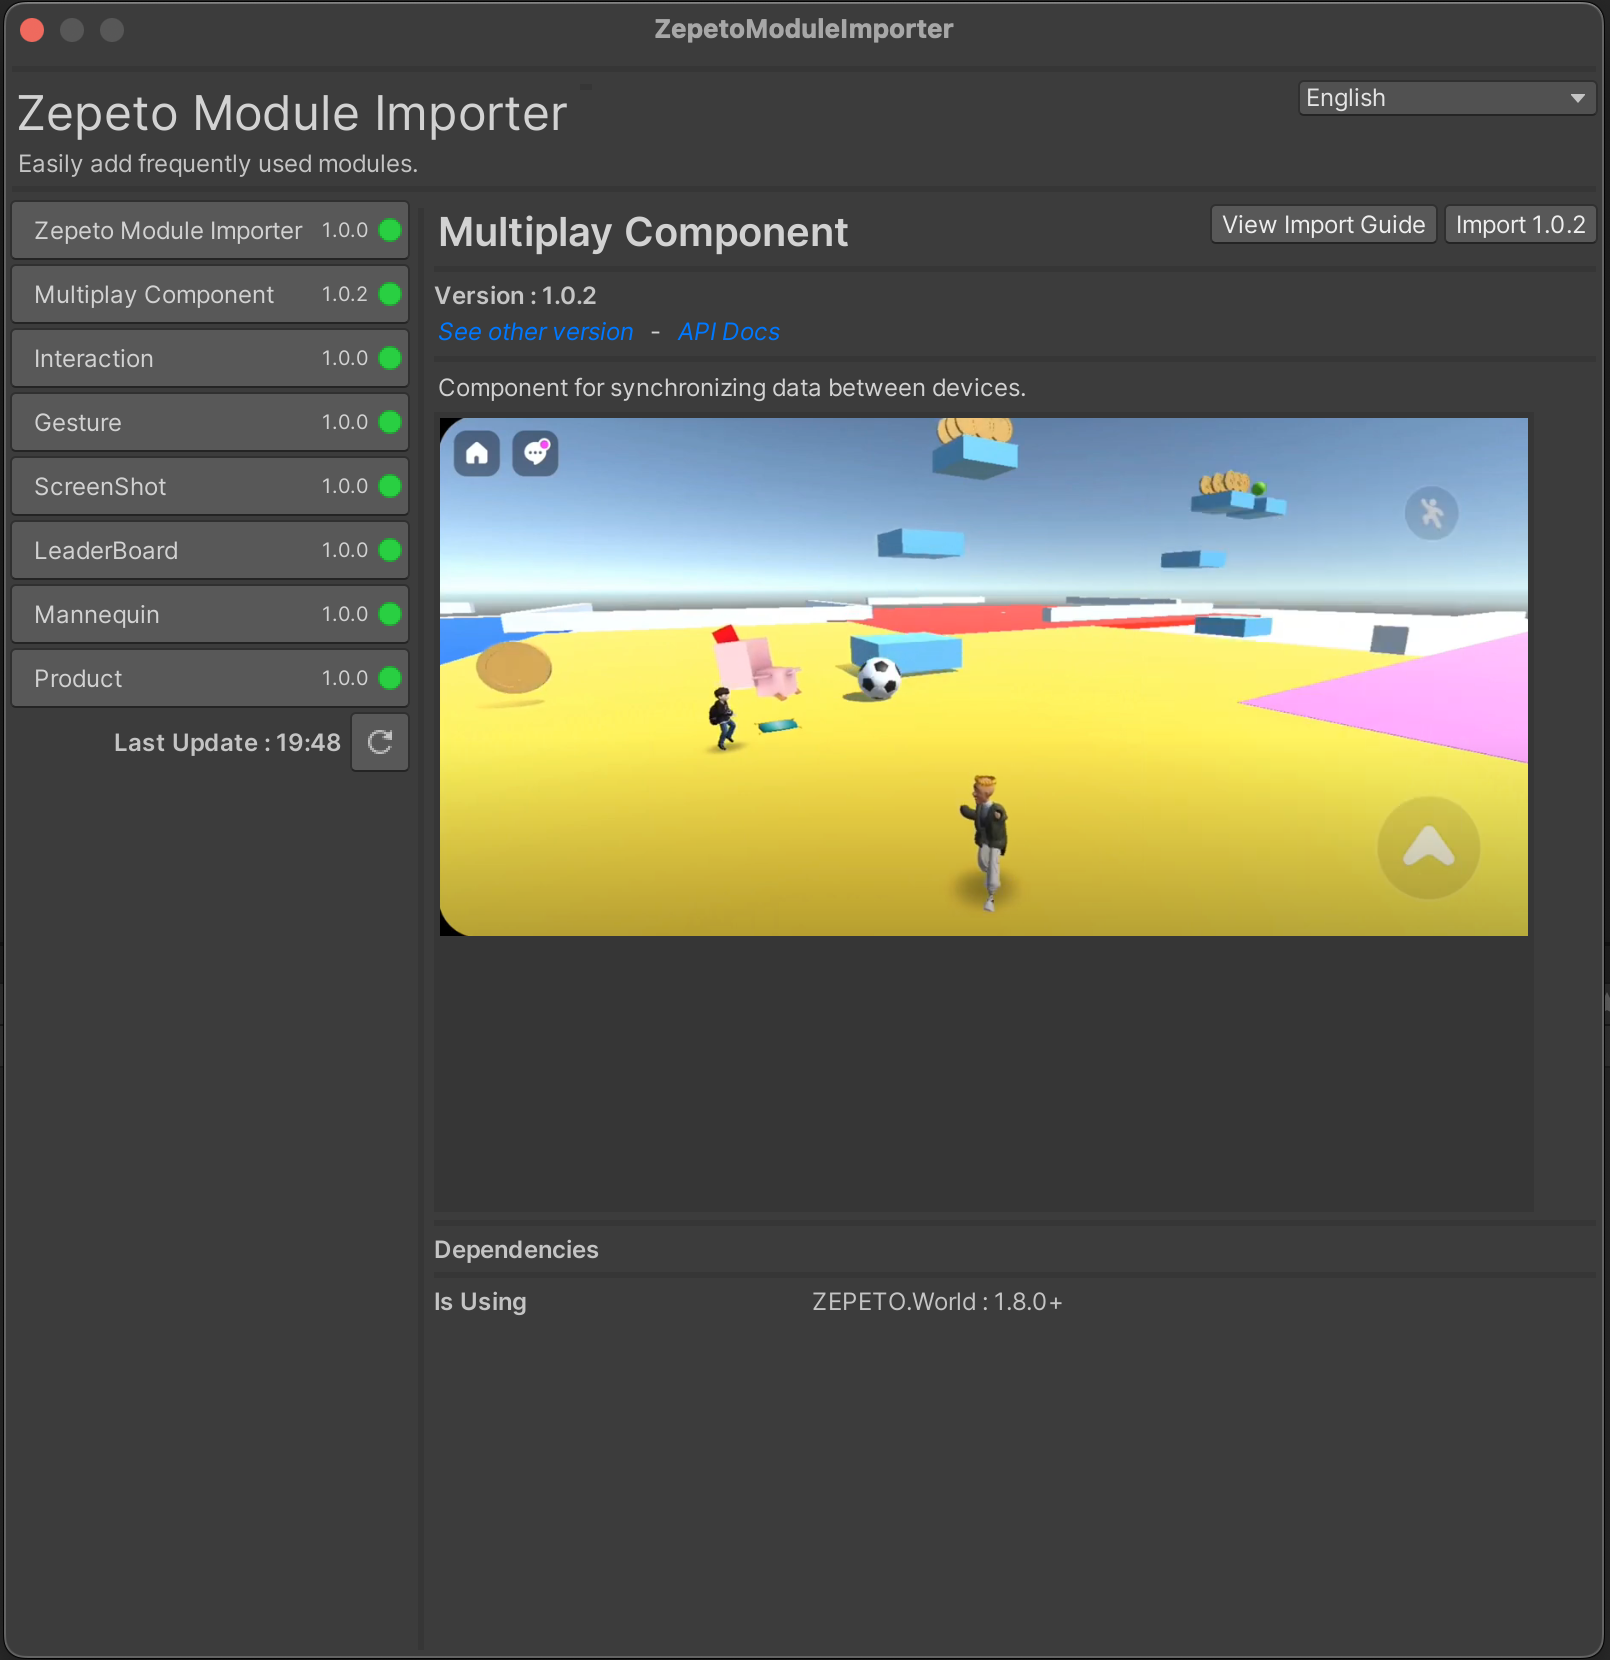
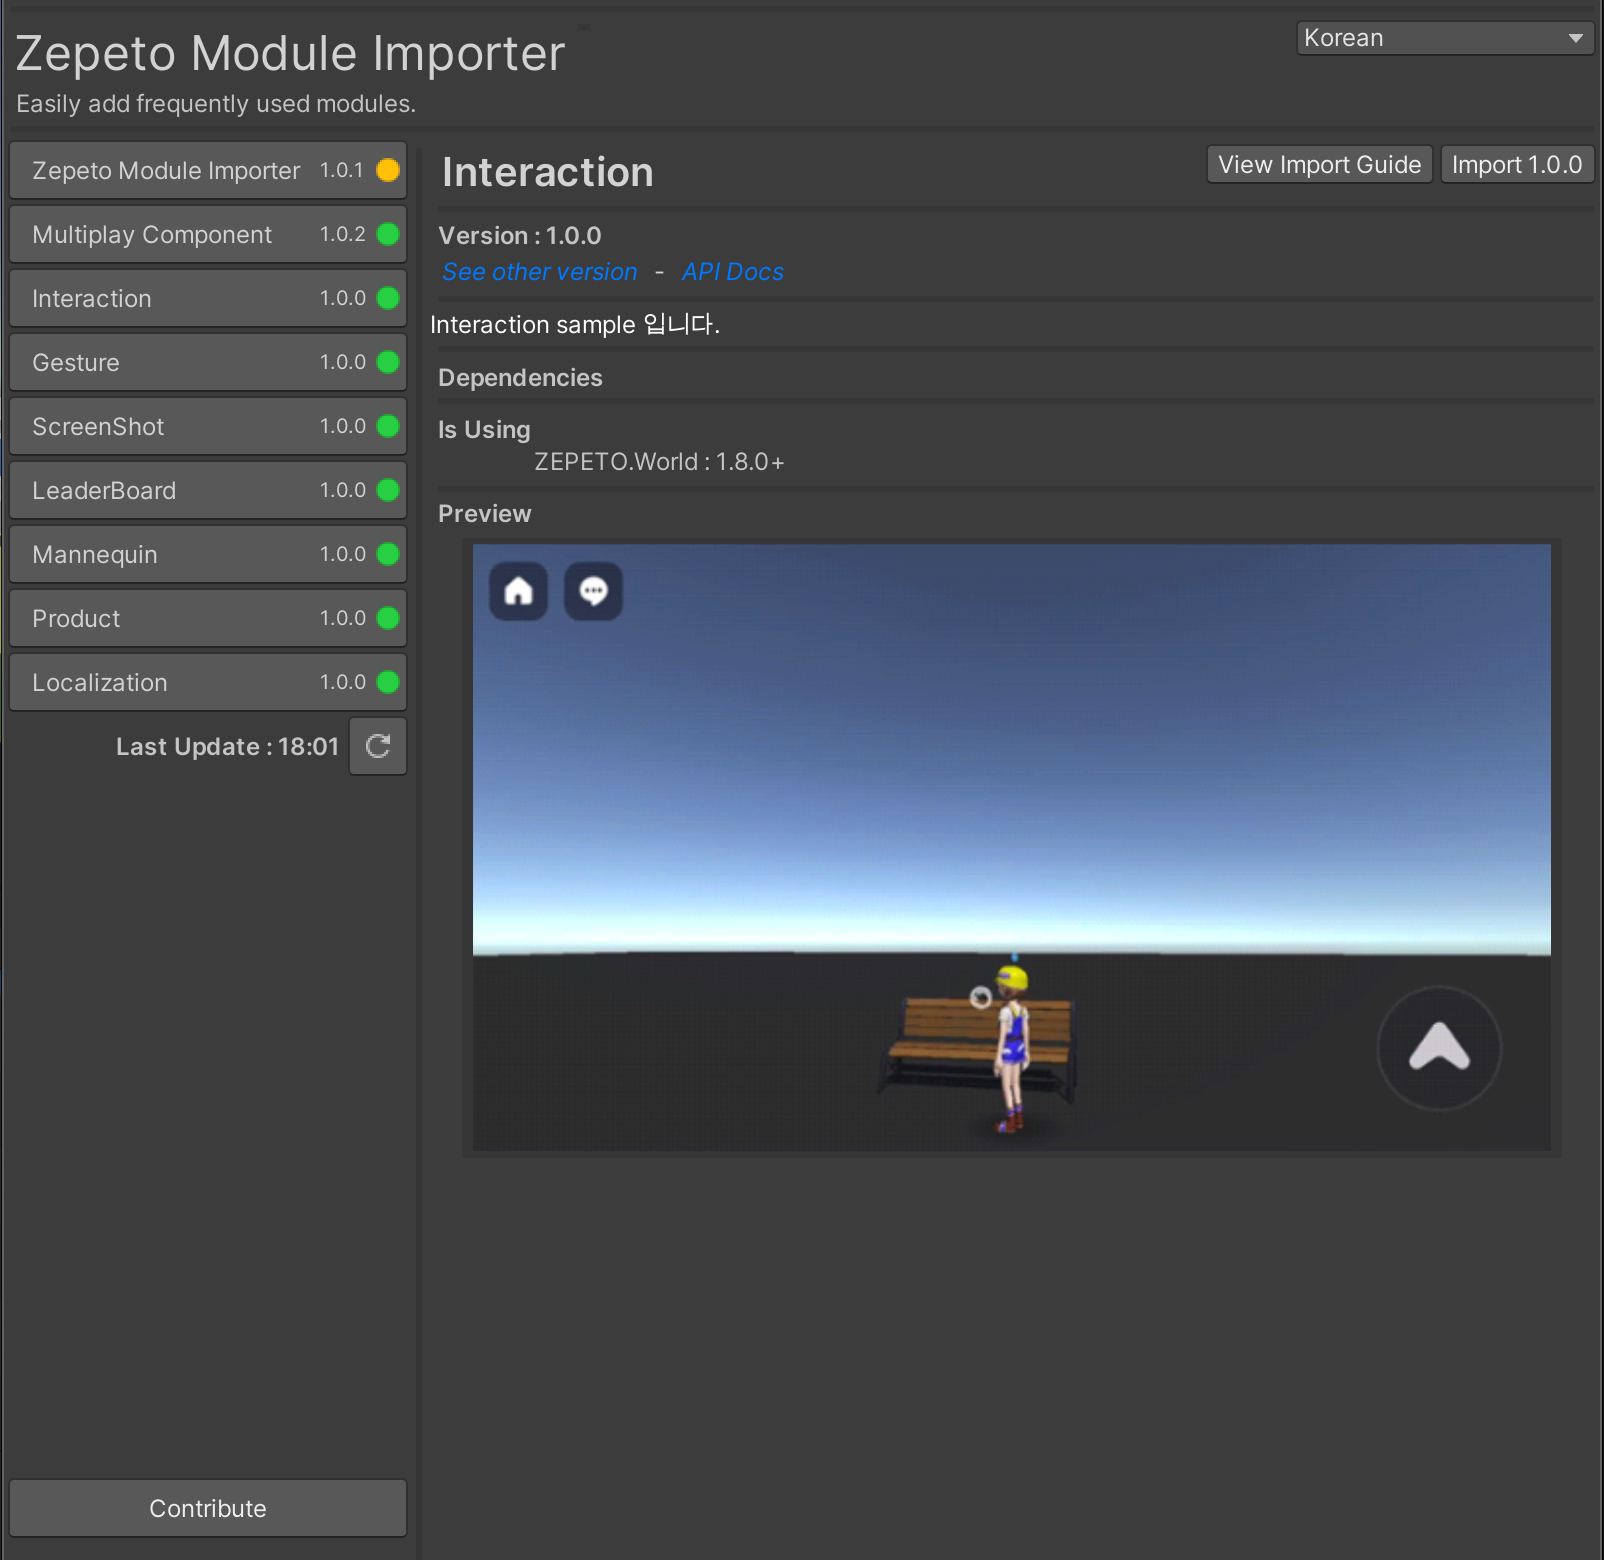
release : ModuleImporter v1.0.1

diff --git a/project/zepeto-modules/Assets/Zepeto Module Importer/Editor/ZepetoModuleImporter.cs b/project/zepeto-modules/Assets/Zepeto Module Importer/Editor/ZepetoModuleImporter.cs
@@ -133,7 +133,7 @@ public class ZepetoModuleImporter : EditorWindow
             }
         }
         DoUpdateButtonGUI();
-
+        DoContibuteButtonGUI();
         GUILayout.EndVertical();
         GUILayout.Box("", GUILayout.ExpandHeight(true), GUILayout.Width(3));
     }
@@ -153,6 +153,21 @@ public class ZepetoModuleImporter : EditorWindow
         GUILayout.EndHorizontal();
     }
 
+    private void DoContibuteButtonGUI()
+    {
+        GUILayout.BeginVertical();
+        GUILayout.FlexibleSpace();
+        if (GUILayout.Button("Contribute", GUILayout.Width(200), GUILayout.Height(30)))
+        {
+            string url = _selectedLanguage == Language.Korean
+                ? ConstantManager.CONTRIBUTE_KR_PATH
+                : ConstantManager.CONTRIBUTE_PATH;
+            Application.OpenURL(url);
+        }
+
+        GUILayout.Space(30);
+        GUILayout.EndVertical();
+    }
 
     private void DoTopButtonGUI()
     {

diff --git a/project/zepeto-modules/Assets/Zepeto Module Importer/Editor/Utilities/ConstantManager.cs b/project/zepeto-modules/Assets/Zepeto Module Importer/Editor/Utilities/ConstantManager.cs
@@ -3,6 +3,9 @@ public static class ConstantManager
     public const string DOWNLOAD_PATH = "https://github.com/JasperGame/zepeto-modules/raw/main/release/";
     public const string REPO_PATH = "https://github.com/JasperGame/zepeto-modules/blob/main/release/";
     public const string CONTENT_DATA_PATH = "https://raw.githubusercontent.com/JasperGame/zepeto-modules/main/release/urlPath.json";
+    public const string CONTRIBUTE_PATH =  "https://github.com/JasperGame/zepeto-modules/blob/main/CONTRIBUTE.md";
+    public const string CONTRIBUTE_KR_PATH = "https://github.com/JasperGame/zepeto-modules/blob/main/CONTRIBUTE_KR.md";
+    
     public const string EXTENSION_UNITYPACKAGE = ".unitypackage";
     public const int PREVIEW_MAX_WIDTH = 550;
     public const int PREVIEW_MAX_HEIGHT = 400;

diff --git a/project/zepeto-modules/Assets/Zepeto Module Importer/Version/ZepetoModuleImporterVersion.cs b/project/zepeto-modules/Assets/Zepeto Module Importer/Version/ZepetoModuleImporterVersion.cs
@@ -1,5 +1,5 @@
 public class ZepetoModuleImporterVersion
 {
-    public static readonly string VERSION = "1.0.0";
+    public static readonly string VERSION = "1.0.1";
 }
     

diff --git a/CONTRIBUTING.md b/CONTRIBUTING.md
@@ -1,0 +1,3 @@
+# How To Contibute
+
+[English](./CONTRIBUTING.md) | [Korean](./CONTRIBUTING_KR.md)

diff --git a/CONTRIBUTING_KR.md b/CONTRIBUTING_KR.md
@@ -1,0 +1,3 @@
+# 기여 방법
+
+[English](./CONTRIBUTING.md) | [Korean](./CONTRIBUTING_KR.md)

diff --git a/README_KR.md b/README_KR.md
@@ -1,0 +1,4 @@
+# 기여 방법
+
+[English](./README.md) | [Korean](./README_KR.md)
+
